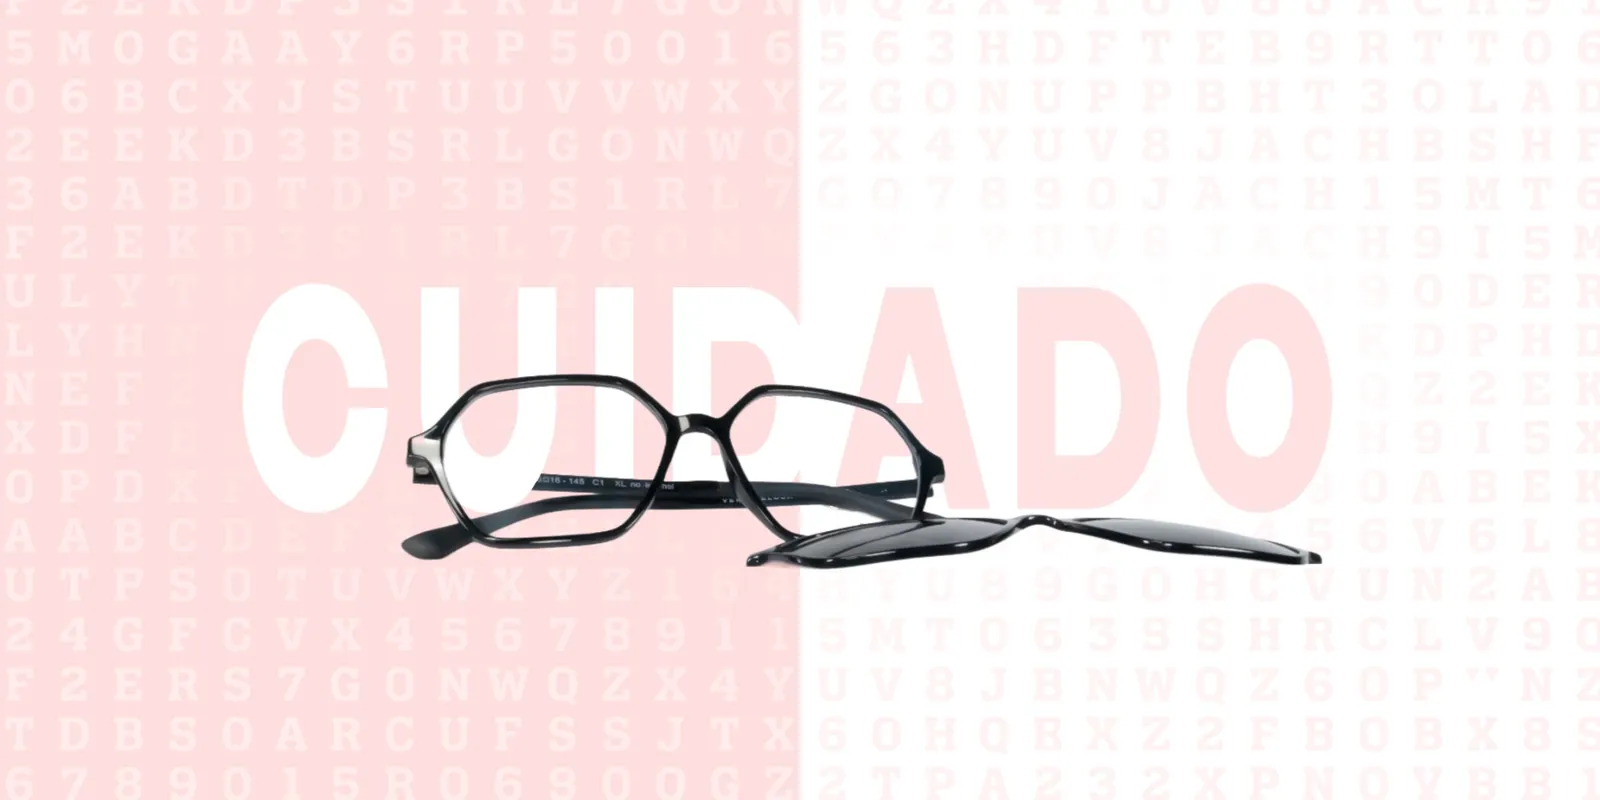
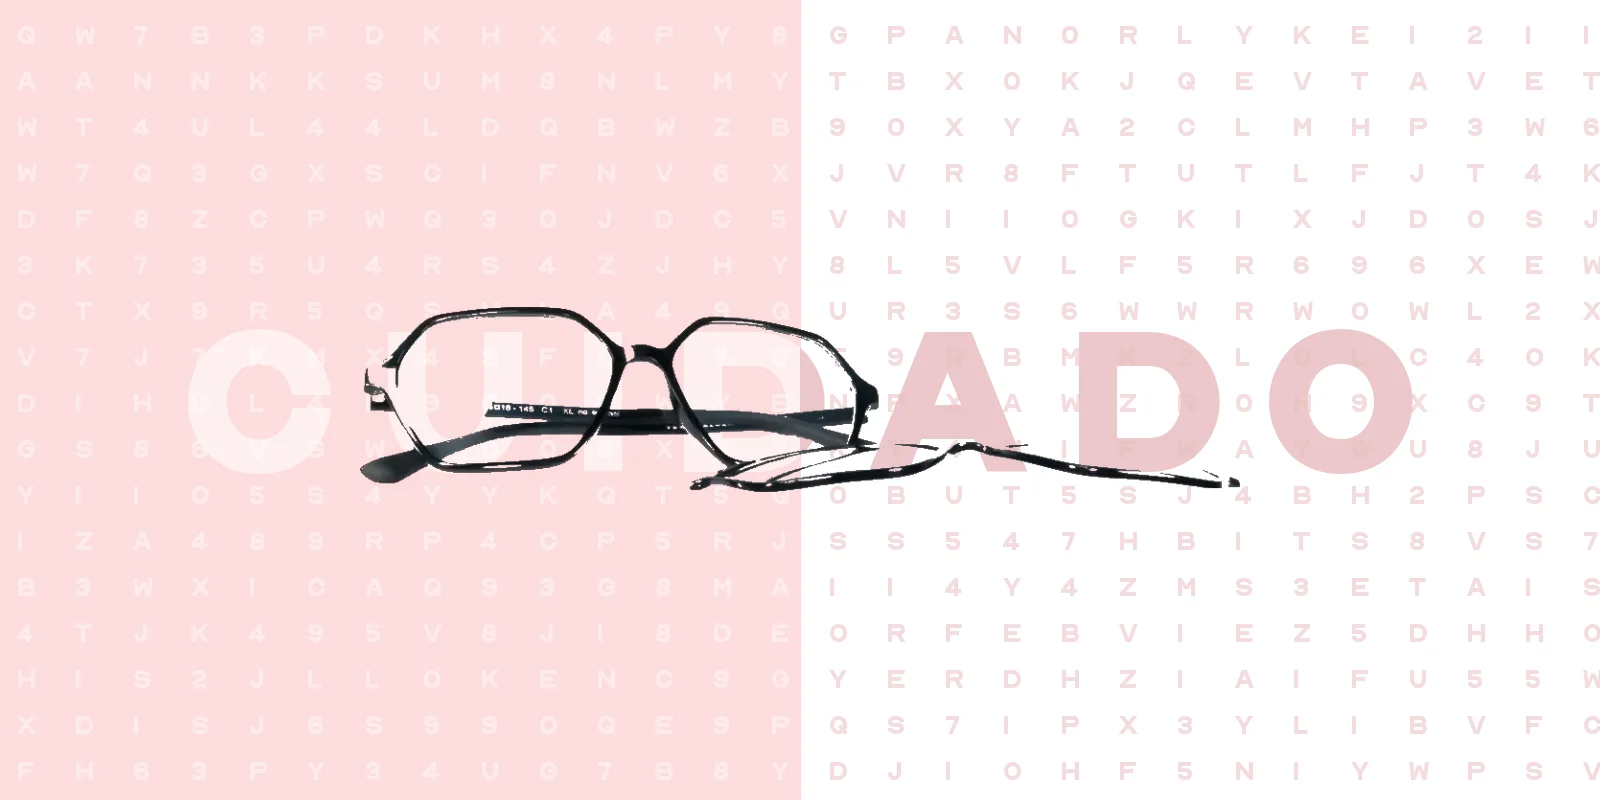
i18n fase 2 (parte 2): carrossel por idioma + chrome (carrinho, favoritos, marcação, cookies)
- Carrossel: imagens traduzidas por idioma — raybanmeta e front-cuidado ('CUIDADO'
  → CARE/SOIN/PFLEGE) geradas nas 5 línguas; OUTLET e MINDTHELOOK são neutros.
- Carrinho, favoritos, modal de marcação (incl. calendário/dias da semana) e
  banner de cookies totalmente traduzidos nas 5 línguas.

Claude-Session: https://claude.ai/code/session_019wUjLgzdyjUUhGwQronu7U

diff --git a/src/App.tsx b/src/App.tsx
@@ -197,6 +197,7 @@ function parsePrice(v) {
 
 /* ── Gaveta de carrinho (100% nossa) ─────────────────────────────── */
 function CartDrawer({ open, onClose, cart, updateQty, removeFromCart }) {
+  const { t } = useTranslation();
   const [loading, setLoading] = useState(false);
   const [err, setErr] = useState(false);
   const subtotal = cart.reduce((s, i) => s + parsePrice(i.price) * i.qty, 0);
@@ -219,13 +220,13 @@ function CartDrawer({ open, onClose, cart, updateQty, removeFromCart }) {
         aria-hidden={!open}
       >
         <div className="flex items-center justify-between px-6 py-5 border-b" style={{ borderColor: "var(--mist)" }}>
-          <p className="uc-label text-sm font-semibold" style={{ color: "var(--forest)" }}>O seu carrinho</p>
-          <button onClick={onClose} aria-label="Fechar" className="p-1 hover:opacity-60"><X size={20} /></button>
+          <p className="uc-label text-sm font-semibold" style={{ color: "var(--forest)" }}>{t("cart.title")}</p>
+          <button onClick={onClose} aria-label={t("common.close")} className="p-1 hover:opacity-60"><X size={20} /></button>
         </div>
 
         <div className="flex-1 overflow-y-auto px-6 py-5">
           {cart.length === 0 ? (
-            <p className="text-sm" style={{ color: "var(--forest-light)" }}>O carrinho está vazio.</p>
+            <p className="text-sm" style={{ color: "var(--forest-light)" }}>{t("cart.empty")}</p>
           ) : (
             <div className="space-y-5">
               {cart.map((item) => (
@@ -237,14 +238,14 @@ function CartDrawer({ open, onClose, cart, updateQty, removeFromCart }) {
                     <p className="text-sm font-semibold leading-tight" style={{ color: "var(--forest)" }}>{item.name}</p>
                     <p className="text-xs mb-2" style={{ color: "var(--gold)" }}>{item.brand}</p>
                     <div className="inline-flex items-center border" style={{ borderColor: "var(--mist)" }}>
-                      <button onClick={() => updateQty(item.id, item.qty - 1)} aria-label="Menos" className="px-2 py-1 hover:bg-gray-100"><Minus size={13} /></button>
+                      <button onClick={() => updateQty(item.id, item.qty - 1)} aria-label={t("common.less")} className="px-2 py-1 hover:bg-gray-100"><Minus size={13} /></button>
                       <span className="px-3 text-sm">{item.qty}</span>
-                      <button onClick={() => updateQty(item.id, item.qty + 1)} aria-label="Mais" className="px-2 py-1 hover:bg-gray-100"><Plus size={13} /></button>
+                      <button onClick={() => updateQty(item.id, item.qty + 1)} aria-label={t("common.more")} className="px-2 py-1 hover:bg-gray-100"><Plus size={13} /></button>
                     </div>
                   </div>
                   <div className="text-right flex flex-col items-end justify-between">
                     <p className="font-display text-sm font-semibold" style={{ color: "var(--forest)" }}>€{(parsePrice(item.price) * item.qty).toFixed(2)}</p>
-                    <button onClick={() => removeFromCart(item.id)} className="text-[11px] uppercase tracking-wide hover:text-black" style={{ color: "var(--forest-light)" }}>Remover</button>
+                    <button onClick={() => removeFromCart(item.id)} className="text-[11px] uppercase tracking-wide hover:text-black" style={{ color: "var(--forest-light)" }}>{t("cart.remove")}</button>
                   </div>
                 </div>
               ))}
@@ -255,14 +256,14 @@ function CartDrawer({ open, onClose, cart, updateQty, removeFromCart }) {
         {cart.length > 0 && (
           <div className="px-6 py-5 border-t" style={{ borderColor: "var(--mist)" }}>
             <div className="flex items-center justify-between mb-4">
-              <span className="text-sm uppercase tracking-wide" style={{ color: "var(--forest-light)" }}>Subtotal</span>
+              <span className="text-sm uppercase tracking-wide" style={{ color: "var(--forest-light)" }}>{t("cart.subtotal")}</span>
               <span className="font-display text-lg font-semibold" style={{ color: "var(--forest)" }}>€{subtotal.toFixed(2)}</span>
             </div>
-            {err && <p className="text-xs mb-3" style={{ color: "var(--wine)" }}>Não foi possível iniciar o checkout. Tenta novamente.</p>}
+            {err && <p className="text-xs mb-3" style={{ color: "var(--wine)" }}>{t("cart.checkoutErr")}</p>}
             <button onClick={doCheckout} disabled={loading} className="btn-forest w-full py-4 text-xs font-semibold uppercase tracking-widest">
-              {loading ? "A processar…" : "Finalizar Compra"}
+              {loading ? t("cart.processing") : t("cart.checkout")}
             </button>
-            <button onClick={onClose} className="w-full mt-2 py-3 text-xs uppercase tracking-widest" style={{ color: "var(--forest-light)" }}>Continuar a comprar</button>
+            <button onClick={onClose} className="w-full mt-2 py-3 text-xs uppercase tracking-widest" style={{ color: "var(--forest-light)" }}>{t("cart.continue")}</button>
           </div>
         )}
       </aside>
@@ -297,6 +298,7 @@ function findProductById(id) {
 
 /* ── DRAWER DE FAVORITOS ──────────────────────────────────────── */
 function FavoritesDrawer({ open, onClose, favorites, onOpenProduct, onToggleFavorite }) {
+  const { t } = useTranslation();
   const [email, setEmail] = useState("");
   const [sending, setSending] = useState(false);
   const [sent, setSent] = useState(false);
@@ -345,13 +347,13 @@ function FavoritesDrawer({ open, onClose, favorites, onOpenProduct, onToggleFavo
         style={{ boxShadow: "-10px 0 40px rgba(0,0,0,0.12)" }}
       >
         <div className="flex items-center justify-between px-6 py-5 border-b" style={{ borderColor: "var(--mist)" }}>
-          <p className="uc-label text-sm font-semibold" style={{ color: "var(--forest)" }}>Favoritos ({items.length})</p>
-          <button onClick={onClose} className="p-2 hover:opacity-60" aria-label="Fechar"><X size={18} /></button>
+          <p className="uc-label text-sm font-semibold" style={{ color: "var(--forest)" }}>{t("fav.title")} ({items.length})</p>
+          <button onClick={onClose} className="p-2 hover:opacity-60" aria-label={t("common.close")}><X size={18} /></button>
         </div>
         <div className="flex-1 overflow-y-auto">
           {items.length === 0 ? (
             <div className="p-10 text-center text-sm leading-relaxed" style={{ color: "var(--forest-light)" }}>
-              Ainda não guardou favoritos.<br />Toque no coração de um modelo para o guardar aqui.
+              {t("fav.empty1")}<br />{t("fav.empty2")}
             </div>
           ) : (
             <ul>
@@ -365,7 +367,7 @@ function FavoritesDrawer({ open, onClose, favorites, onOpenProduct, onToggleFavo
                     <p className="font-semibold text-sm" style={{ color: "var(--forest)" }}>{p.name}</p>
                     <p className="text-sm" style={{ color: "var(--forest)" }}>€{p.price}</p>
                   </button>
-                  <button onClick={() => onToggleFavorite(p.id)} aria-label="Remover dos favoritos" className="p-2 hover:opacity-60">
+                  <button onClick={() => onToggleFavorite(p.id)} aria-label={t("fav.removeAria")} className="p-2 hover:opacity-60">
                     <Heart size={18} fill="var(--wine)" style={{ color: "var(--wine)" }} />
                   </button>
                 </li>
@@ -376,16 +378,16 @@ function FavoritesDrawer({ open, onClose, favorites, onOpenProduct, onToggleFavo
         {items.length > 0 && (
           <div className="px-6 py-5 border-t" style={{ borderColor: "var(--mist)" }}>
             {sent ? (
-              <p className="text-sm text-center" style={{ color: "var(--forest)" }}>Enviámos os seus favoritos para {email}.</p>
+              <p className="text-sm text-center" style={{ color: "var(--forest)" }}>{t("fav.sent", { email })}</p>
             ) : (
               <>
-                <p className="text-xs mb-2" style={{ color: "var(--forest-light)" }}>Receber os meus favoritos por email:</p>
+                <p className="text-xs mb-2" style={{ color: "var(--forest-light)" }}>{t("fav.getByEmail")}</p>
                 <div className="flex gap-2">
                   <input
                     type="email"
                     value={email}
                     onChange={(e) => setEmail(e.target.value)}
-                    placeholder="O seu email"
+                    placeholder={t("fav.emailPlaceholder")}
                     className="flex-1 px-3 py-2.5 border text-sm outline-none"
                     style={{ borderColor: "var(--mist)" }}
                   />
@@ -394,10 +396,10 @@ function FavoritesDrawer({ open, onClose, favorites, onOpenProduct, onToggleFavo
                     disabled={sending || !email}
                     className="btn-forest px-4 py-2.5 text-xs font-semibold uppercase tracking-widest disabled:opacity-50"
                   >
-                    {sending ? "..." : "Enviar"}
+                    {sending ? "..." : t("fav.send")}
                   </button>
                 </div>
-                {error && <p className="text-xs mt-2" style={{ color: "var(--wine)" }}>Não foi possível enviar. Tente novamente.</p>}
+                {error && <p className="text-xs mt-2" style={{ color: "var(--wine)" }}>{t("fav.sendErr")}</p>}
               </>
             )}
           </div>
@@ -2512,6 +2514,7 @@ function ExitPopup({ onClose }) {
 }
 /* ── COOKIE BANNER (LEGALIZADO RGPD) ──────────────────────────── */
 function CookieBanner() {
+  const { t } = useTranslation();
   const [show, setShow] = useState(false);
 
   useEffect(() => {
@@ -2534,8 +2537,8 @@ function CookieBanner() {
     >
       <div className="text-sm" style={{ color: "#555" }}>
         <p>
-          <strong style={{ color: "var(--forest)" }}>Usamos cookies 🍪</strong><br/>
-          Utilizamos cookies para melhorar a sua experiência, personalizar conteúdos e analisar tráfego. Pode aceitar todos ou apenas os estritamente necessários.
+          <strong style={{ color: "var(--forest)" }}>{t("cookie.title")}</strong><br/>
+          {t("cookie.text")}
         </p>
       </div>
       <div className="flex gap-3 w-full sm:w-auto flex-shrink-0">
@@ -2543,13 +2546,13 @@ function CookieBanner() {
           onClick={() => handleCookies("essential")} 
           className="btn-outline-forest w-full sm:w-auto px-6 py-3 rounded-xl font-semibold text-sm"
         >
-          Apenas Essenciais
+          {t("cookie.essential")}
         </button>
         <button 
           onClick={() => handleCookies("all")} 
           className="btn-forest w-full sm:w-auto px-8 py-3 rounded-xl font-semibold text-sm"
         >
-          Aceitar Todos
+          {t("cookie.acceptAll")}
         </button>
       </div>
     </div>
@@ -2863,6 +2866,7 @@ function ProductModal({ product, onClose, onAdd, onBook, onBookConsulta, isFavor
 /* ── BOOKING MODAL (COM SÁBADOS) ────────────────────────────── */
 /* ── BOOKING MODAL (COM NOTIFICAÇÃO REAL) ────────────────────────────── */
 function BookingModal({ isOpen, onClose, service }) {
+  const { t, i18n } = useTranslation();
   const [step, setStep] = useState(1);
   const [selectedDate, setSelectedDate] = useState(null);
   const [selectedTime, setSelectedTime] = useState(null);
@@ -2936,9 +2940,9 @@ function BookingModal({ isOpen, onClose, service }) {
         <div className="p-6 border-b flex items-center justify-between" style={{ borderColor: "var(--mist)" }}>
           <div>
             <p className="font-display text-2xl font-semibold" style={{ color: "var(--forest)" }}>
-              {confirmed ? "Marcação Confirmada" : `Agendar ${service}`}
+              {confirmed ? t("booking.confirmedTitle") : t("booking.title")}
             </p>
-            {!confirmed && <p className="text-xs mt-1 text-gray-400">Passo {step} de 4</p>}
+            {!confirmed && <p className="text-xs mt-1 text-gray-400">{t("booking.stepOf", { step })}</p>}
           </div>
           <button onClick={() => { reset(); onClose(); }} className="w-10 h-10 rounded-full flex items-center justify-center bg-gray-100"><X size={18} /></button>
         </div>
@@ -2950,20 +2954,20 @@ function BookingModal({ isOpen, onClose, service }) {
               <div className="w-20 h-20 rounded-full mx-auto flex items-center justify-center mb-6" style={{ background: "#e8f5ee" }}>
                 <CheckCircle size={40} style={{ color: "#16a34a" }} />
               </div>
-              <p className="font-display text-3xl font-semibold mb-2" style={{ color: "var(--forest)" }}>Tudo Pronto!</p>
-              <p className="text-sm mb-8 text-gray-500">A sua marcação para {selectedTime} de {selectedDate?.toLocaleDateString()} foi confirmada. Verifique o seu e-mail!</p>
-              <button onClick={() => { reset(); onClose(); }} className="btn-forest px-10 py-4 rounded-xl font-bold text-sm w-full">Voltar à Loja</button>
+              <p className="font-display text-3xl font-semibold mb-2" style={{ color: "var(--forest)" }}>{t("booking.doneTitle")}</p>
+              <p className="text-sm mb-8 text-gray-500">{t("booking.doneText", { time: selectedTime, date: selectedDate?.toLocaleDateString(i18n.language) })}</p>
+              <button onClick={() => { reset(); onClose(); }} className="btn-forest px-10 py-4 rounded-xl font-bold text-sm w-full">{t("booking.backToStore")}</button>
             </div>
           ) : step === 1 ? (
             /* Passo 1: Calendário */
             <div className="fade-up">
               <div className="flex items-center justify-between mb-6">
                 <button onClick={() => setMonth(new Date(month.getFullYear(), month.getMonth() - 1))} disabled={month.getMonth() === today.getMonth()} className="p-2 bg-gray-100 rounded-lg disabled:opacity-30"><ChevronRight size={16} className="rotate-180" /></button>
-                <p className="font-bold capitalize">{new Intl.DateTimeFormat("pt-PT", { month: "long", year: "numeric" }).format(month)}</p>
+                <p className="font-bold capitalize">{new Intl.DateTimeFormat(i18n.language, { month: "long", year: "numeric" }).format(month)}</p>
                 <button onClick={() => setMonth(new Date(month.getFullYear(), month.getMonth() + 1))} className="p-2 bg-gray-100 rounded-lg"><ChevronRight size={16} /></button>
               </div>
               <div className="grid grid-cols-7 gap-2">
-                {["Dom", "Seg", "Ter", "Qua", "Qui", "Sex", "Sáb"].map(d => <div key={d} className="text-center text-[10px] font-bold uppercase text-gray-400">{d}</div>)}
+                {[t("booking.wd0"), t("booking.wd1"), t("booking.wd2"), t("booking.wd3"), t("booking.wd4"), t("booking.wd5"), t("booking.wd6")].map(d => <div key={d} className="text-center text-[10px] font-bold uppercase text-gray-400">{d}</div>)}
                 {Array(startDay).fill(0).map((_, i) => <div key={i} />)}
                 {Array(daysInMonth).fill(0).map((_, i) => {
                   const day = i + 1;
@@ -2977,7 +2981,7 @@ function BookingModal({ isOpen, onClose, service }) {
                   );
                 })}
               </div>
-              <button onClick={() => setStep(2)} disabled={!selectedDate} className="btn-forest w-full py-4 rounded-xl font-bold mt-8 disabled:opacity-40">Continuar</button>
+              <button onClick={() => setStep(2)} disabled={!selectedDate} className="btn-forest w-full py-4 rounded-xl font-bold mt-8 disabled:opacity-40">{t("booking.continue")}</button>
             </div>
           ) : step === 2 ? (
             /* Passo 2: Horas */
@@ -2988,45 +2992,45 @@ function BookingModal({ isOpen, onClose, service }) {
                 ))}
               </div>
               <div className="flex gap-3 mt-8">
-                <button onClick={() => setStep(1)} className="btn-outline-forest flex-1 py-4 rounded-xl font-bold">Voltar</button>
-                <button onClick={() => setStep(3)} disabled={!selectedTime} className="btn-forest flex-1 py-4 rounded-xl font-bold disabled:opacity-40">Continuar</button>
+                <button onClick={() => setStep(1)} className="btn-outline-forest flex-1 py-4 rounded-xl font-bold">{t("booking.back")}</button>
+                <button onClick={() => setStep(3)} disabled={!selectedTime} className="btn-forest flex-1 py-4 rounded-xl font-bold disabled:opacity-40">{t("booking.continue")}</button>
               </div>
             </div>
           ) : step === 3 ? (
             /* Passo 3: Dados */
             <div className="fade-up space-y-4">
-              <input type="text" placeholder="Nome Completo" value={clientData.name} onChange={e => setClientData({...clientData, name: e.target.value})} className="w-full px-5 py-4 rounded-xl border-2 outline-none focus:border-black" />
-              <input type="tel" placeholder="Telemóvel" value={clientData.phone} onChange={e => setClientData({...clientData, phone: e.target.value})} className="w-full px-5 py-4 rounded-xl border-2 outline-none focus:border-black" />
-              <input type="email" placeholder="E-mail" value={clientData.email} onChange={e => setClientData({...clientData, email: e.target.value})} className="w-full px-5 py-4 rounded-xl border-2 outline-none focus:border-black" />
+              <input type="text" placeholder={t("booking.namePlaceholder")} value={clientData.name} onChange={e => setClientData({...clientData, name: e.target.value})} className="w-full px-5 py-4 rounded-xl border-2 outline-none focus:border-black" />
+              <input type="tel" placeholder={t("booking.phonePlaceholder")} value={clientData.phone} onChange={e => setClientData({...clientData, phone: e.target.value})} className="w-full px-5 py-4 rounded-xl border-2 outline-none focus:border-black" />
+              <input type="email" placeholder={t("booking.emailPlaceholder")} value={clientData.email} onChange={e => setClientData({...clientData, email: e.target.value})} className="w-full px-5 py-4 rounded-xl border-2 outline-none focus:border-black" />
               <div className="flex gap-3 mt-8">
-                <button onClick={() => setStep(2)} className="btn-outline-forest flex-1 py-4 rounded-xl font-bold">Voltar</button>
-                <button onClick={() => setStep(4)} disabled={!clientData.name || !clientData.phone} className="btn-forest flex-1 py-4 rounded-xl font-bold">Continuar</button>
+                <button onClick={() => setStep(2)} className="btn-outline-forest flex-1 py-4 rounded-xl font-bold">{t("booking.back")}</button>
+                <button onClick={() => setStep(4)} disabled={!clientData.name || !clientData.phone} className="btn-forest flex-1 py-4 rounded-xl font-bold">{t("booking.continue")}</button>
               </div>
             </div>
           ) : (
             /* Passo 4: Resumo Final */
             <div className="fade-up">
               <div className="bg-gray-50 rounded-2xl p-6 mb-8 border border-gray-100">
-                <p className="text-xs font-bold uppercase tracking-widest text-gray-400 mb-4">Resumo da Marcação</p>
+                <p className="text-xs font-bold uppercase tracking-widest text-gray-400 mb-4">{t("booking.summary")}</p>
                 <div className="space-y-3">
-                  <div className="flex justify-between"><span>Data</span><span className="font-bold">{selectedDate?.toLocaleDateString()}</span></div>
-                  <div className="flex justify-between"><span>Hora</span><span className="font-bold">{selectedTime}</span></div>
-                  <div className="flex justify-between"><span>Cliente</span><span className="font-bold">{clientData.name}</span></div>
+                  <div className="flex justify-between"><span>{t("booking.date")}</span><span className="font-bold">{selectedDate?.toLocaleDateString()}</span></div>
+                  <div className="flex justify-between"><span>{t("booking.time")}</span><span className="font-bold">{selectedTime}</span></div>
+                  <div className="flex justify-between"><span>{t("booking.client")}</span><span className="font-bold">{clientData.name}</span></div>
                 </div>
               </div>
               <div className="flex gap-3">
-                <button onClick={() => setStep(3)} className="btn-outline-forest flex-1 py-4 rounded-xl font-bold">Voltar</button>
+                <button onClick={() => setStep(3)} className="btn-outline-forest flex-1 py-4 rounded-xl font-bold">{t("booking.back")}</button>
                 <button
                   onClick={handleFinalConfirm}
                   disabled={isSending}
                   className="btn-forest flex-1 py-4 rounded-xl font-bold flex items-center justify-center gap-2 shadow-lg"
                 >
-                  {isSending ? "A enviar..." : <><CheckCircle size={18} /> Confirmar Marcação</>}
+                  {isSending ? t("booking.sending") : <><CheckCircle size={18} /> {t("booking.confirm")}</>}
                 </button>
               </div>
               {sendError && (
                 <p className="text-xs mt-4 text-center" style={{ color: "#c0392b" }}>
-                  Não foi possível enviar o pedido de marcação. Ligue-nos para 934 421 310 ou tente novamente.
+                  {t("booking.confirmErr")}
                 </p>
               )}
             </div>
@@ -3528,7 +3532,8 @@ function BookingModal({ isOpen, onClose, service }) {
   };
  /* HOME PAGE (COM CARROSSEL) */
   const HomePage = ({ setPage, openBook, setSelectedProduct }) => {
-    const { t } = useTranslation();
+    const { t, i18n } = useTranslation();
+    const langImg = (base) => (i18n.language === "pt" ? `/fotos/${base}.webp` : `/fotos/${base}-${i18n.language}.webp`);
     // 1. Definir os Slides do Carrossel
     const slides = [
       {
@@ -3538,7 +3543,7 @@ function BookingModal({ isOpen, onClose, service }) {
         // letras esbatida, wordmark "RAY-BAN" grande por trás, óculos recortados
         // à mesma escala e um texto curto no topo. É uma imagem única, como os
         // restantes slides. Para a trocar, substituir public/fotos/raybanmeta.webp.
-        img: "/fotos/raybanmeta.webp",
+        img: langImg("raybanmeta"),
         alt: "Adquira já os seus Ray-Ban Meta na Óptica 13 — óculos inteligentes com câmara, áudio e Meta AI",
         btnText: t("slides.saberMais"),
         btnAction: () => setPage("contact"),
@@ -3559,7 +3564,7 @@ function BookingModal({ isOpen, onClose, service }) {
       },
       {
         id: 3,
-        img: "/fotos/front-cuidado.webp",
+        img: langImg("front-cuidado"),
         alt: "Exame de vista gratuito",
         btnText: t("slides.marcarExame"),
         btnAction: () => openBook("Consulta de Optometria"),
